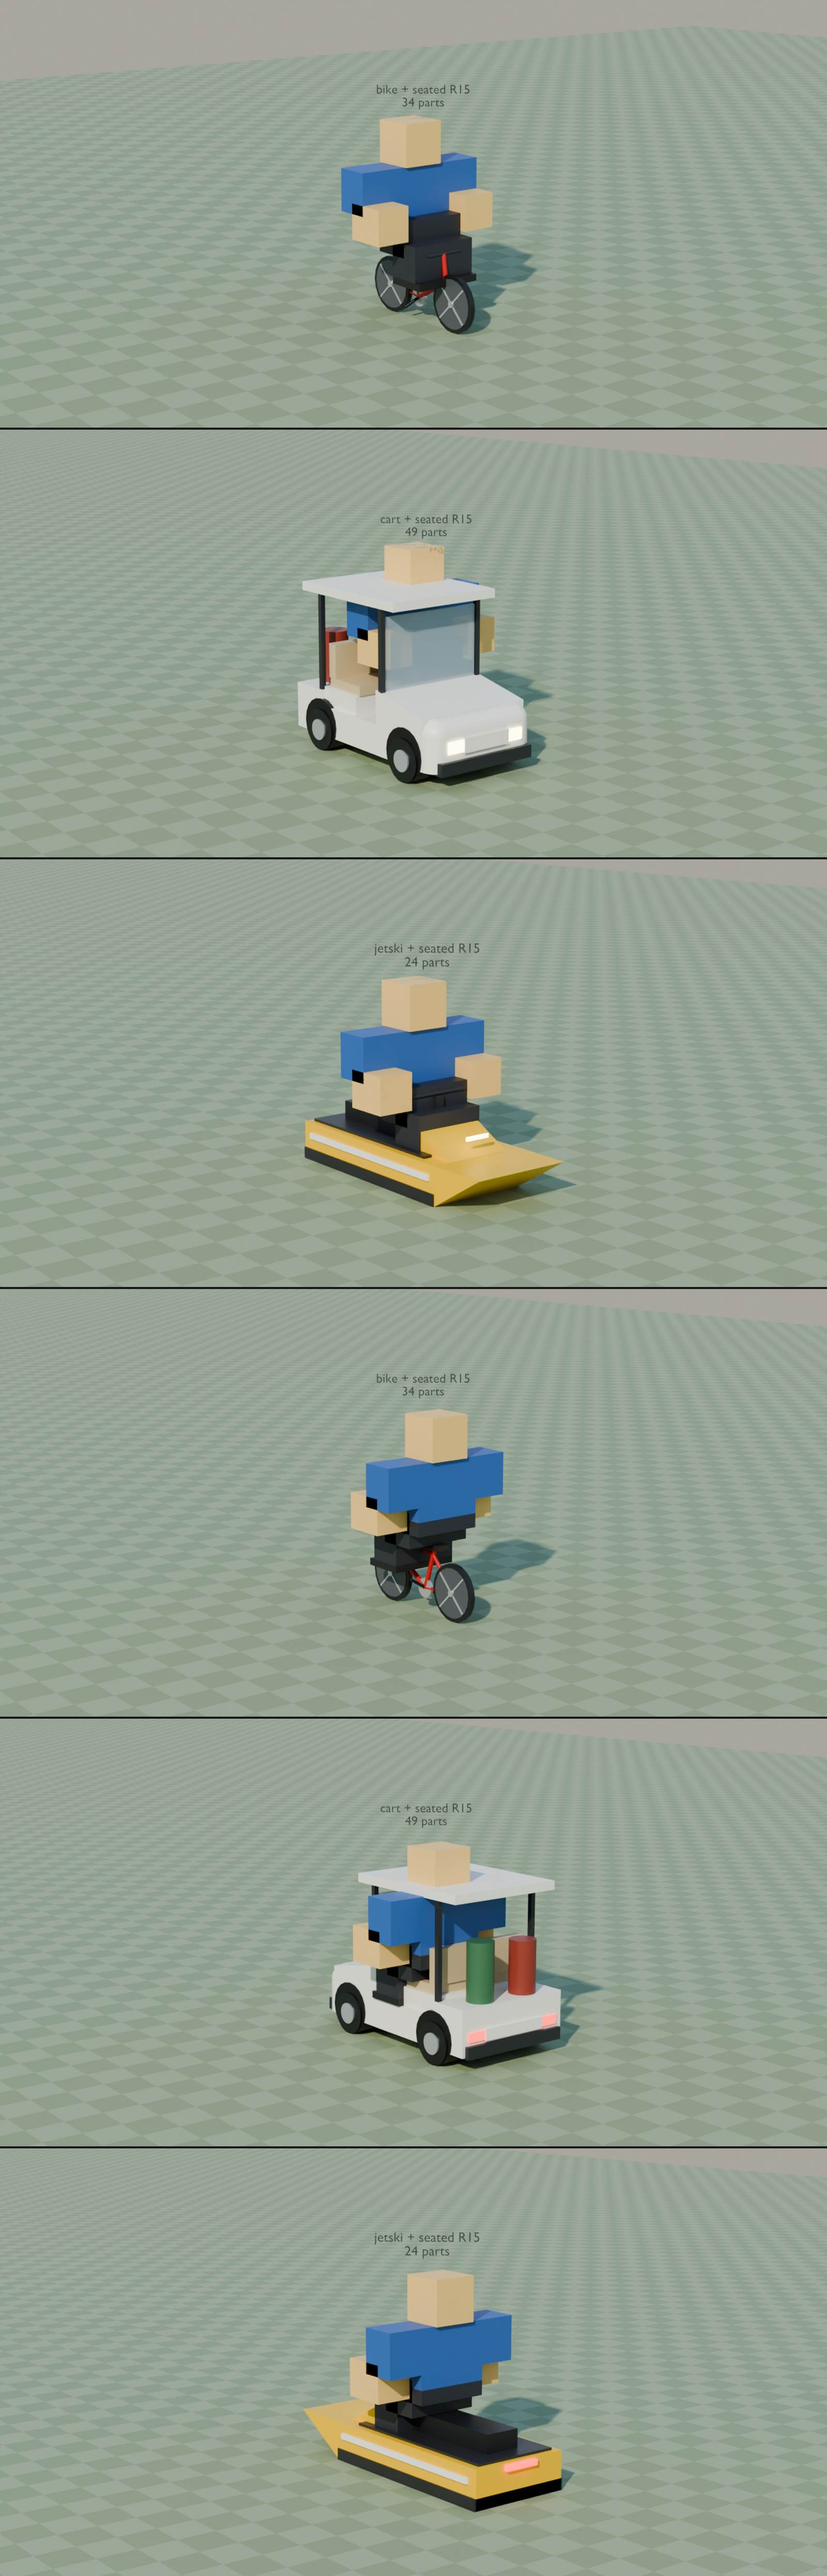
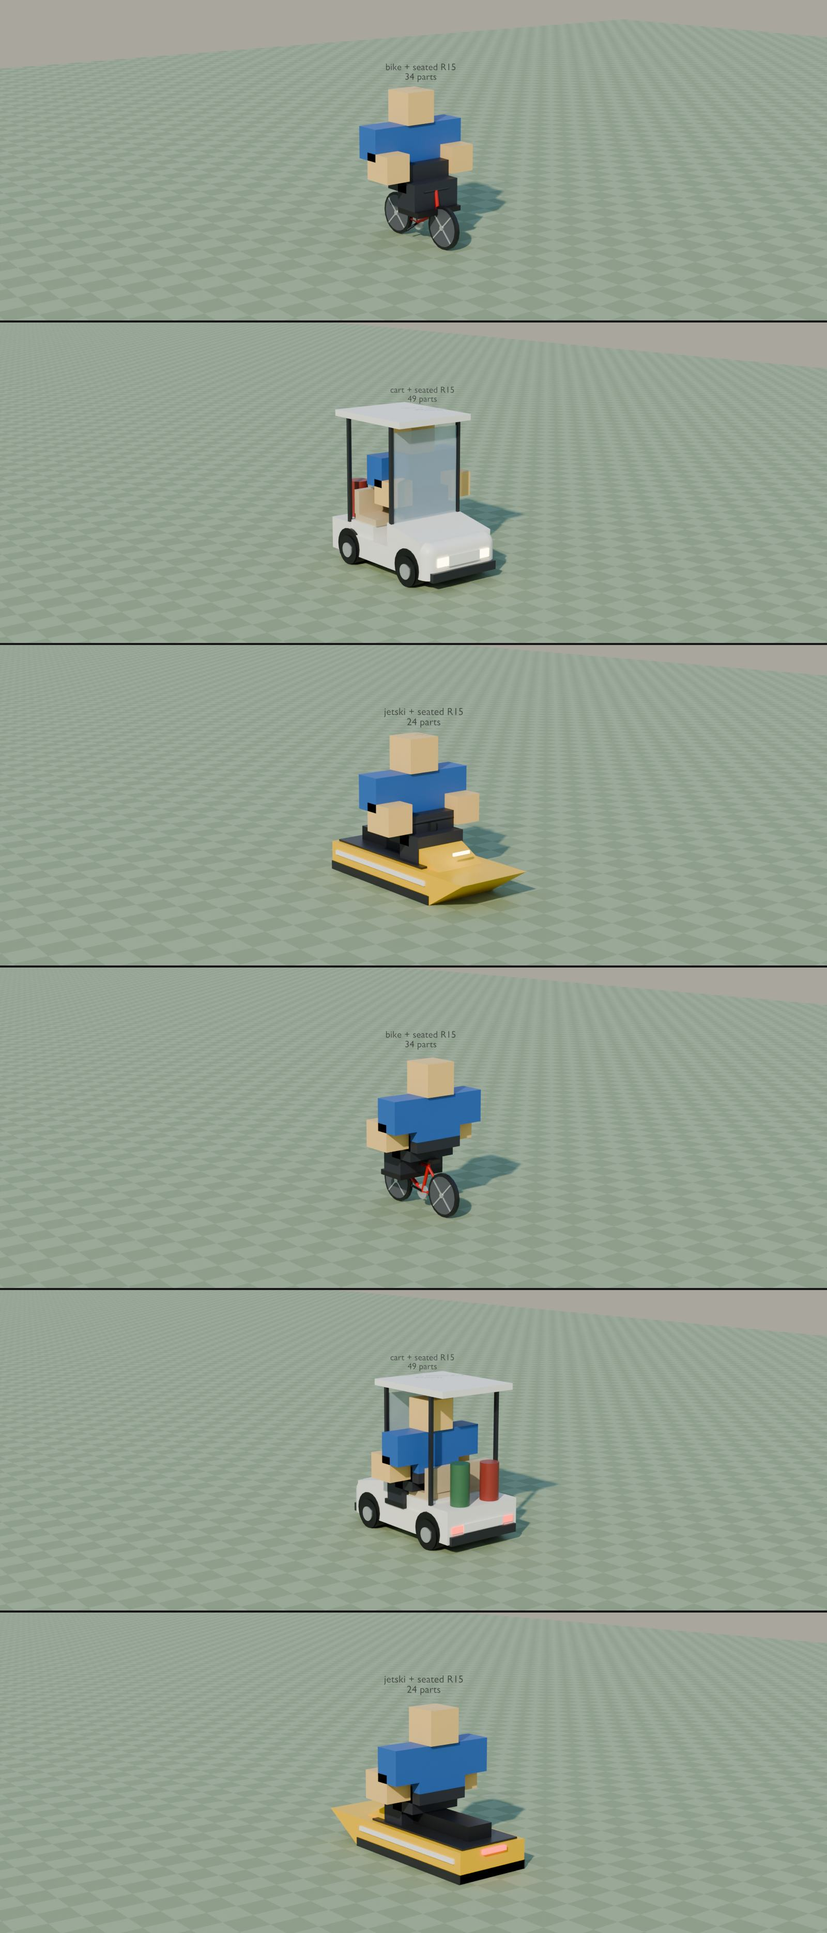
Renders and check sheet: after_seated and after_lineup with the raised golf cart; BIKES_CHECK: the cart's roof fixed (box 6.25)
Claude-Session: https://claude.ai/code/session_01M7kvU21XVNfCAcdQZ7o6vh

diff --git a/docs/owner/BIKES_CHECK.md b/docs/owner/BIKES_CHECK.md
@@ -36,7 +36,7 @@ The game sits you on a hidden seat in each vehicle. That seat used to be where t
 
 Nobody has checked these in the game yet. They are worked out from a standard Roblox body's sit pose.
 
-### Two size calls for you
+### A size call for you, and the cart fixed
 
 - **The bike is a small adult bike.** It is drawn at 0.88 of a full bicycle so that it fits its collision box, which is 1.25 wide, 3 high and 4.5 long:
 
@@ -49,11 +49,12 @@ Nobody has checked these in the game yet. They are worked out from a standard Ro
 
   A seated player is about 5.6 studs tall on it, so it looks small under an adult. A full-size bike needs a box of about 1.3 wide, 3 high and 5.0 long. That changes what the bike collides with, and the box its steering and speed work in. **Default if you say nothing:** the box and the 0.88 bike stay as they are.
 
-- **The golf cart's roof is too low for a seated player.** The bench top is 2.12 studs up, and a seated player's head reaches 5.72. The underside of the roof is at 4.5, so the head pokes about 1.2 studs through it (see `after_seated.jpg`). The cart's collision box is only 4.75 tall. The fix is either:
-  - a taller cart: a box of about 6.0 tall, with the roof raised; or
-  - a lower bench, which puts the driver's hips down into the tub.
-
-  **Default if you say nothing:** it stays as it is, and you sit on the bench as drawn.
+- **The golf cart's roof: fixed: roof raised, box 6.25 (about 6.0).** Before, a seated player's head (5.72 studs up: the bench top is 2.12) poked about 1.2 studs through the roof, whose underside was at 4.5 in a 4.75-tall box. Now:
+  - your cart's collision box is 6.25 tall (still 3.75 wide and 6.5 long), and its posts, windshield and roof go up with it;
+  - the underside of the roof is at 6.0, so a seated head clears it by about 0.3 studs (see `after_seated.jpg`). A box of exactly 6.0 would have left only 0.03;
+  - the tub, the bench and the golf bags have not moved, so you sit where you did;
+  - the traffic's carts are not changed: they keep their 4.75 box and their lower roof;
+  - the two parked carts still stand clear: nothing is built over their spots.
 
 ## Why the riders are not the new rounded townspeople models
 
@@ -92,7 +93,7 @@ Nothing else about the riders changed. They are still never patients. The only t
 5. Get on the bike, a cart and the jet ski, and get into a patrol car:
    - Do you sit on the seat?
    - Does the first-person view come from your own head?
-   - In the car, does your head stay under the roof?
+   - In the car and the golf cart, does your head stay under the roof?
 
 ## Still basic-looking: left for you to decide
 - **The trolley stops (3)** on the east boulevard are solid 24 x 7.5-stud blocks. Making them look like shelters means making them open, which changes their collisions. **Default if you say nothing:** they stay as they are.
